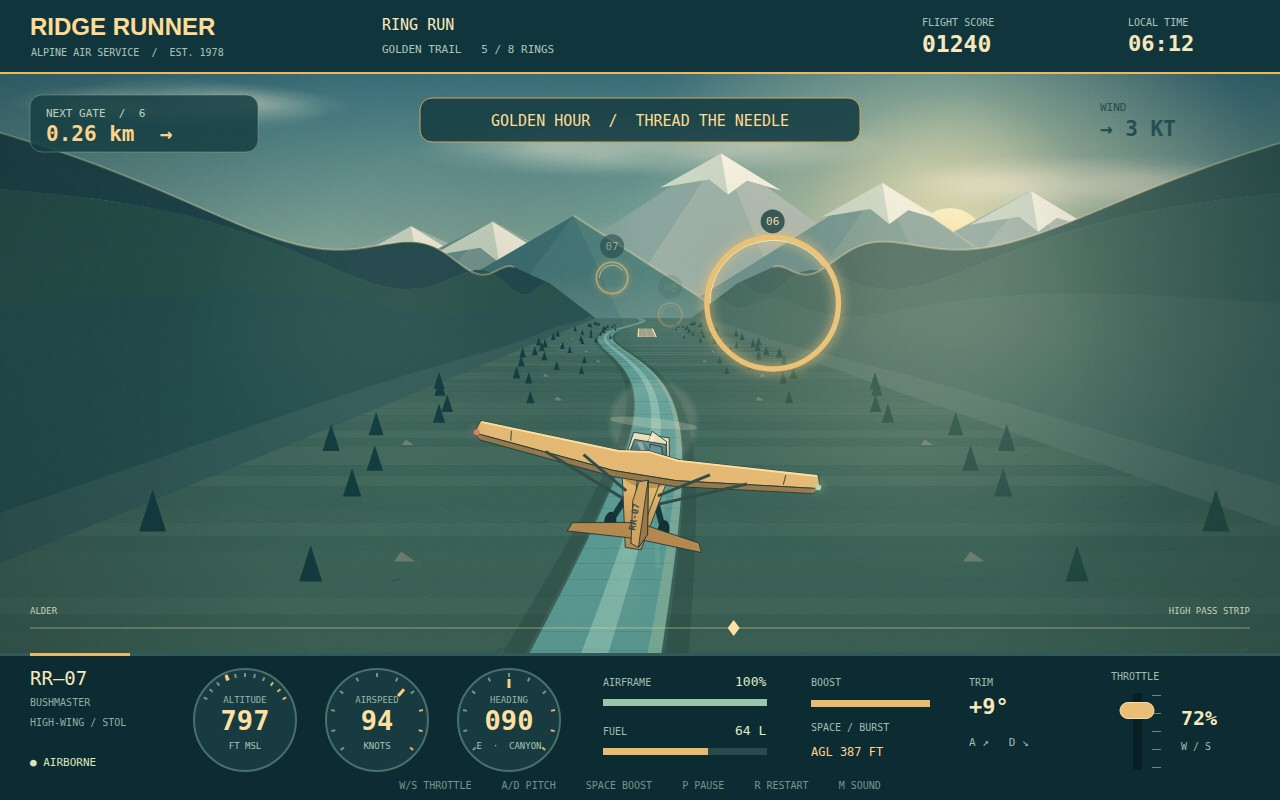
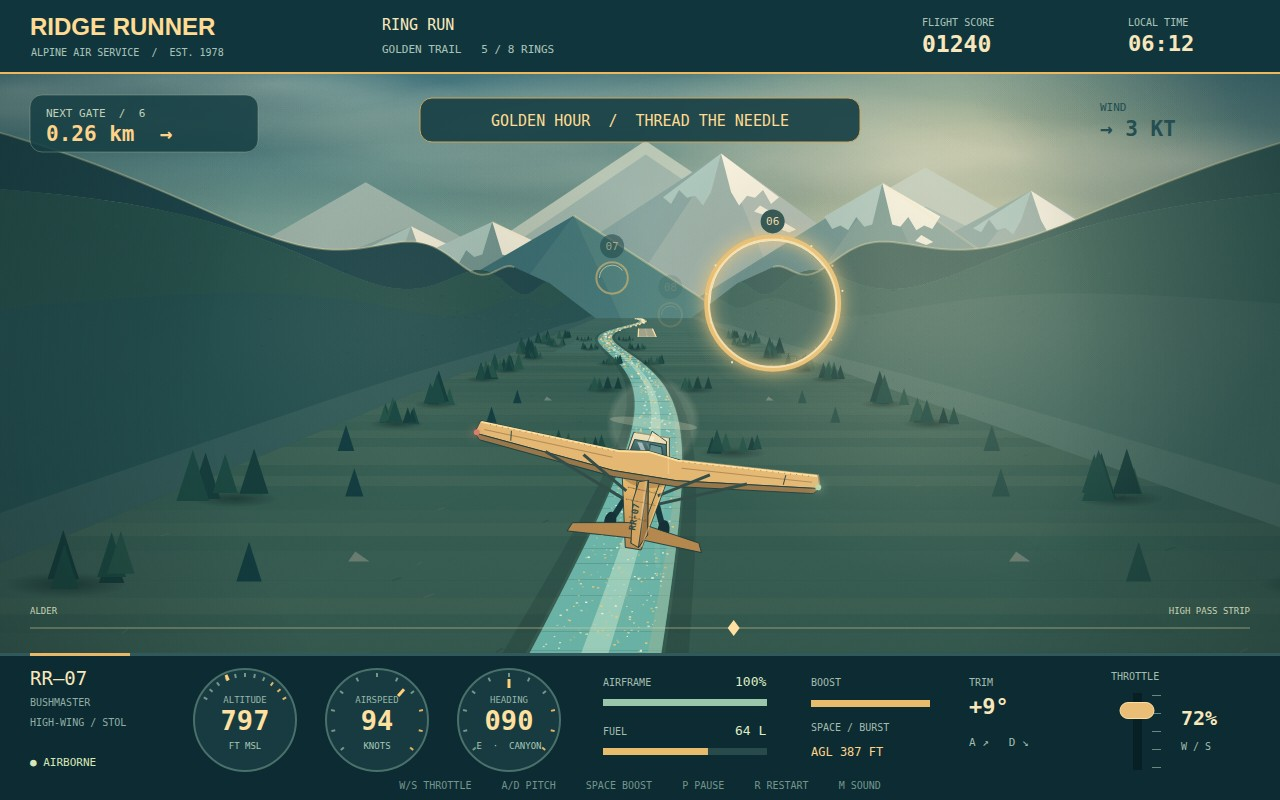
Art-target pass: volumetric two-tone clouds, eroded mist, 5-layer mountains with irregular snow, forest clumps, river sun-glitter, glowing ring core with dust, weathered-metal plane

diff --git a/game/src/chase.js b/game/src/chase.js
@@ -39,41 +39,43 @@ RR.Chase=class{
  worldPolygon(c,points,color){this.polygon(c,points.map(p=>this.projectPoint(...p)),color);}
  drawSky(c){const storm=this.mission===2,sky=c.createLinearGradient(0,74,0,580);
   for(const [p,color] of [[0,storm?'#243640':'#3f747e'],[.4,storm?'#52666b':'#8fae9d'],[.75,storm?'#6a7b78':'#d9c49c'],[1,storm?'#89958a':'#f4d9a4']])sky.addColorStop(p,color);c.fillStyle=sky;c.fillRect(0,0,1280,800);
-  for(const [r,a] of [[320,storm?.14:.5],[150,storm?.09:.5]]){const g=c.createRadialGradient(950,242,0,950,242,r),rgb=storm?'200,214,208':'255,231,170';g.addColorStop(0,`rgba(${rgb},${a})`);g.addColorStop(1,`rgba(${rgb},0)`);c.fillStyle=g;c.fillRect(950-r,242-r,r*2,r*2);}
+  for(const [r,a] of [[520,storm?.045:.24],[320,storm?.14:.5],[150,storm?.09:.5]]){const g=c.createRadialGradient(950,242,0,950,242,r),rgb=storm?'200,214,208':r===520?'255,214,150':'255,231,170';g.addColorStop(0,`rgba(${rgb},${a})`);g.addColorStop(1,`rgba(${rgb},0)`);c.fillStyle=g;c.fillRect(950-r,242-r,r*2,r*2);}
   const sun=c.createLinearGradient(0,208,0,276);sun.addColorStop(0,'#fff2c0');sun.addColorStop(1,'#ffd488');c.fillStyle=storm?'rgba(150,170,163,.16)':sun;c.beginPath();c.arc(950,242,34,0,7);c.fill();
   if(storm){RR.fx.cloud(c,140,110,430,80,'dark',.45,11);RR.fx.cloud(c,1140,105,430,80,'dark',.45,37);}
-  else{RR.fx.cloud(c,180,105,300,54,'warm',.5,11);RR.fx.cloud(c,640,145,430,80,'warm',.5,23);RR.fx.cloud(c,1080,185,360,64,'warm',.5,37);RR.fx.cloud(c,780,235,400,40,'cool',.22,29);}
+  else{RR.fx.cloud(c,600,65,1100,170,'cool',.16,41);RR.fx.cloud(c,180,105,560,120,'warm',.5,11);RR.fx.cloud(c,640,145,760,170,'warm',.5,23);RR.fx.cloud(c,1080,185,620,140,'warm',.5,37);RR.fx.cloud(c,780,235,420,90,'cool',.22,29);}
  }
  drawFarMountains(c){
+  for(let far=0;far<2;far++){const base=318+far*16;for(let n=-1;n<6;n++){const x=n*280-this.lateral*(.012+far*.008),peak=167+far*14+Math.sin(n*2.1+far)*30;this.polygon(c,[{x:x-180,y:base},{x:x+85,y:peak},{x:x+350,y:base}],far?'#a4b6ac':'#bec8b7');}if(RR.fx.mist){c.save();c.globalAlpha=.30-far*.025;c.drawImage(RR.fx.mist,0,base-35,1280,70);c.restore();}}
   for(let layer=0;layer<3;layer++){const base=350+layer*20,spacing=310+layer*80;for(let n=-1;n<5;n++){const x=n*spacing-this.lateral*(.03+layer*.035),peak=190+layer*30+Math.sin(n*2.1+layer)*42;
    this.polygon(c,[{x:x-200,y:base},{x:x+100,y:peak},{x:x+370,y:base}],['#8da6a0','#678e8c','#3d7075'][layer]);this.polygon(c,[{x:x+100,y:peak},{x:x-30,y:base},{x:x+180,y:base}],['#9fb1a8','#789891','#497a7b'][layer]);this.polygon(c,[{x:x+100,y:peak},{x:x+180,y:base},{x:x+370,y:base}],['#b1bbb0','#88a29a','#548480'][layer]);
-   if(layer<2){this.polygon(c,[{x:x+100,y:peak},{x:x+39,y:peak+34},{x:x+88,y:peak+26},{x:x+107,y:peak+41},{x:x+126,y:peak+27},{x:x+160,y:peak+37}],'#ccd6c4');this.polygon(c,[{x:x+100,y:peak},{x:x+107,y:peak+41},{x:x+126,y:peak+27},{x:x+160,y:peak+37}],'#f6f2de');}
-   if(layer>0){c.strokeStyle=`rgba(255,232,170,${layer===2?.4:.25})`;c.lineWidth=2;c.beginPath();c.moveTo(x+100,peak);c.lineTo(x+370,base);c.stroke();}}}
-  const haze=c.createLinearGradient(0,275,0,385);haze.addColorStop(0,'#dbd5b000');haze.addColorStop(.5,'#c8cdb434');haze.addColorStop(1,'#c8cdb400');c.fillStyle=haze;c.fillRect(0,275,1280,110);
-  const low=c.createLinearGradient(0,345,0,420);low.addColorStop(0,'rgba(220,226,205,.10)');low.addColorStop(1,'rgba(220,226,205,0)');c.fillStyle=low;c.fillRect(0,345,1280,75);
+   if(layer<2){for(const side of [-1,1]){const points=[{x:x+100,y:peak}];for(let k=0;k<7;k++){const jitter=Math.sin((n*31+layer*7+k)*127.1)*.5+.5;points.push({x:x+100+side*(58-k*8),y:peak+Math.max(0,base-peak)*.18+(k%2?8:0)+jitter*9});}this.polygon(c,points,side>0?'#f8f1dc':'#aec6bc');}for(let k=0;k<2;k++){const px=x+139+k*24,py=peak+52+k*17;this.polygon(c,[{x:px,y:py},{x:px+12,y:py+7},{x:px+5,y:py+10},{x:px-6,y:py+6}],'#f8f1dc');}}
+   if(layer>0){c.strokeStyle=`rgba(255,232,170,${layer===2?.4:.25})`;c.lineWidth=2;c.beginPath();c.moveTo(x+100,peak);c.lineTo(x+370,base);c.stroke();}}if(RR.fx.mist){c.save();c.globalAlpha=.24-layer*.04;c.drawImage(RR.fx.mist,0,base-30,1280,65);c.restore();}}
  }
  riverCentre(z){return -110+Math.sin(z*.0017)*100;}
  drawValleyFloor(c){
   c.fillStyle='#325b56';c.fillRect(0,365,1280,300);
   const depths=[];for(let d=20;d<5200;d+=Math.min(55,Math.max(4,d*.065)))depths.push(d);depths.push(5200);
-  for(let j=depths.length-2;j>=0;j--){const a=this.z-200+depths[j],b=this.z-200+depths[j+1],h=Math.sin(j*127.1)*43758.5453;this.worldPolygon(c,[[-1600,0,a],[1600,0,a],[1600,0,b],[-1600,0,b]],['#40685c','#456c60','#3d665b'][Math.floor((h-Math.floor(h))*3)]);
+  for(let j=depths.length-2;j>=0;j--){const a=this.z-200+depths[j],b=this.z-200+depths[j+1],h=Math.sin(j*127.1)*43758.5453;this.worldPolygon(c,[[-1600,0,a],[1600,0,a],[1600,0,b],[-1600,0,b]],['#3b6257','#406659','#386055'][Math.floor((h-Math.floor(h))*3)]);
    // Clip broad world-space fields to each depth strip so the river and slopes stay in front.
    for(const [x,z,w,length,color] of [[-350,900,190,480,'#41695d'],[210,2100,210,650,'#3d665b'],[-370,3300,230,720,'#548480'],[235,4600,185,560,'#41695d'],[-340,5550,190,650,'#548480'],[210,6300,230,580,'#3d665b']]){const near=Math.max(a,z),far=Math.min(b,z+length);if(near<far){c.save();c.globalAlpha=.30;this.worldPolygon(c,[[x+25*(near-z)/length,0,near],[x+w-35*(near-z)/length,0,near],[x+w-35*(far-z)/length,0,far],[x+25*(far-z)/length,0,far]],color);c.restore();}}
    for(const [x,z,w,length,color] of [[-290,1600,120,320,'#548480'],[260,3800,110,360,'#41695d'],[-380,4900,135,300,'#3d665b']]){const near=Math.max(a,z),far=Math.min(b,z+length);if(near<far){c.save();c.globalAlpha=.22;this.worldPolygon(c,[[x,0,near],[x+w,0,near],[x+w,0,far],[x,0,far]],color);c.restore();}}
-   const ra=this.riverCentre(a),rb=this.riverCentre(b);this.worldPolygon(c,[[ra-34,1,a],[ra+34,1,a],[rb+34,1,b],[rb-34,1,b]],'#609e98');this.worldPolygon(c,[[ra+27,2,a],[ra+34,2,a],[rb+34,2,b],[rb+27,2,b]],'#a1b9a080');
+   const ra=this.riverCentre(a),rb=this.riverCentre(b);this.worldPolygon(c,[[ra-34,1,a],[ra+34,1,a],[rb+34,1,b],[rb-34,1,b]],'#74b8ad');this.worldPolygon(c,[[ra+27,2,a],[ra+34,2,a],[rb+34,2,b],[rb+27,2,b]],'#a1b9a080');
 
   }
-  for(let j=depths.length-2;j>=0;j--){const a=this.z-200+depths[j],b=this.z-200+depths[j+1],ra=this.riverCentre(a),rb=this.riverCentre(b);this.worldPolygon(c,[[ra-7,2,a],[ra+7,2,a],[rb+7,2,b],[rb-7,2,b]],'rgba(215,238,214,.32)');for(const side of [-1,1])this.worldPolygon(c,[[ra+side*36,1,a],[ra+side*48,1,a],[rb+side*48,1,b],[rb+side*36,1,b]],'rgba(8,28,30,.16)');}
+  for(let j=depths.length-2;j>=0;j--){const a=this.z-200+depths[j],b=this.z-200+depths[j+1],ra=this.riverCentre(a),rb=this.riverCentre(b);this.worldPolygon(c,[[ra-7,2,a],[ra+7,2,a],[rb+7,2,b],[rb-7,2,b]],'rgba(215,238,214,.46)');for(const side of [-1,1])this.worldPolygon(c,[[ra+side*36,1,a],[ra+side*48,1,a],[rb+side*48,1,b],[rb+side*36,1,b]],'rgba(8,28,30,.16)');}
   const hash=n=>{const h=Math.sin(n*127.1)*43758.5453;return h-Math.floor(h);};
+  for(let j=0;j<depths.length-1;j++){const a=this.z-200+depths[j],b=this.z-200+depths[j+1],count=Math.min(24,Math.max(2,Math.floor(68*this.projectPoint(0,0,a).scale*.22)));for(let n=0;n<count;n++){const f=hash(j*97+n*13),z=a+(b-a)*f,centre=this.riverCentre(a)+(this.riverCentre(b)-this.riverCentre(a))*f,p=this.projectPoint(centre+(hash(j*31+n*71)-.5)*58,2,z),size=1+hash(n*17+j)*1.5;c.fillStyle=`rgba(${n%2?'255,246,214':'255,205,120'},${.35+hash(j*41+n)*.6})`;c.fillRect(p.x,p.y,size,size*.65);}}
   const nearDepths=depths.filter(d=>d<1100);for(let n=0;n<90;n++){const j=n%nearDepths.length,z=this.z-200+nearDepths[j],x=(hash(j*97+n*13)-.5)*900;if(Math.abs(x-this.riverCentre(z))<50)continue;const p=this.projectPoint(x,0,z);c.strokeStyle=n%2?'rgba(235,242,200,.06)':'rgba(0,0,0,.10)';c.lineWidth=Math.max(.5,p.scale);c.beginPath();c.moveTo(p.x,p.y);c.lineTo(p.x+(3+hash(n+3)*5)*p.scale,p.y-2*p.scale);c.stroke();}
   // Continuous faces avoid antialiased seams between narrow depth tiles.
   for(const side of [-1,1]){const toe=[],ridge=[],crest=[];for(const d of depths){const z=this.z-200+d,h=290+Math.sin(z*.003)*65;toe.push([side*480,0,z]);ridge.push([side*950,h,z]);crest.push([side*1300,h+160,z]);}this.worldPolygon(c,[...ridge,...crest.slice().reverse()],side<0?'#21494e':'#355d58');this.worldPolygon(c,[...toe,...ridge.slice().reverse()],side<0?'#285454':'#426b62');
    const mid=toe.map((p,i)=>p.map((v,k)=>v+(ridge[i][k]-v)*.55));this.worldPolygon(c,[...mid,...ridge.slice().reverse()],side<0?'#2b5650':'#3a655c');
    for(const [i,offset] of [500,1300,2100].entries()){const p=this.projectPoint(side*720,150,this.z+offset),radius=260*p.scale+120,patch=c.createRadialGradient(p.x,p.y,0,p.x,p.y,radius),rgb=i%2?'255,240,200':'6,24,26';patch.addColorStop(0,`rgba(${rgb},${i%2?.06:.13})`);patch.addColorStop(1,`rgba(${rgb},0)`);c.fillStyle=patch;c.beginPath();c.arc(p.x,p.y,radius,0,Math.PI*2);c.fill();}
    c.strokeStyle='rgba(255,233,170,.34)';c.lineWidth=2;c.beginPath();crest.forEach((v,i)=>{const p=this.projectPoint(...v);if(i)c.lineTo(p.x,p.y);else c.moveTo(p.x,p.y);});c.stroke();
+   for(let n=0;n<90;n++){const z=this.z+hash(n*73+side)*3000,f=hash(n*43+side),p=this.projectPoint(side*(490+f*440),(290+Math.sin(z*.003)*65)*f,z);c.fillStyle=n%2?'rgba(235,224,181,.055)':'rgba(6,28,29,.10)';c.fillRect(p.x,p.y,1+hash(n)*2,1);}
    const fog=toe.map((p,i)=>p.map((v,k)=>v+(ridge[i][k]-v)*.08));this.worldPolygon(c,[...toe,...fog.reverse()],'rgba(220,226,205,.07)');
   }
-  for(let n=Math.ceil((this.z+3600)/73);n>=Math.floor((this.z-140)/73);n--){const z=n*73,hash=Math.sin(n*127.1)*43758.5453,f=hash-Math.floor(hash);for(const side of [-1,1]){const x=side*(170+f*280);const p=this.projectPoint(x,0,z),h=(19+f*16)*p.scale,w=h*.32;if(p.y>680)continue;this.polygon(c,[{x:p.x,y:p.y-h},{x:p.x-w,y:p.y},{x:p.x+w,y:p.y}],side<0?'#153f43':'#254f48');if(n%4===0){const r=this.projectPoint(x*.8,0,z+26);this.polygon(c,[{x:r.x-8*r.scale,y:r.y},{x:r.x-3*r.scale,y:r.y-7*r.scale},{x:r.x+7*r.scale,y:r.y}], '#718378');}}}
+  for(let n=Math.ceil((this.z+2300)/146);n>=Math.floor((this.z-140)/146);n--){const z=n*146;if(z-this.z+230>=2600)continue;for(const side of [-1,1]){const x=n%3===0?this.riverCentre(z)+side*(60+hash(n)*45):side*(370+hash(n)*90),p=this.projectPoint(x,0,z),scale=[.65,1,1.35][Math.abs(n)%3];if(p.y>680)continue;if(RR.fx.shade)c.drawImage(RR.fx.shade,p.x-40*p.scale,p.y-6*p.scale,80*p.scale,16*p.scale);for(let k=0;k<5+Math.floor(hash(n+8)*5);k++){const q=this.projectPoint(x+(hash(n*31+k)-.5)*65,0,z+(hash(n*17+k)-.5)*30),h=(18+hash(n*47+k)*24)*q.scale*scale,w=h*.32;this.polygon(c,[{x:q.x,y:q.y-h},{x:q.x-w,y:q.y},{x:q.x+w,y:q.y}],['#173f3d','#1d4a44','#265449'][k%3]);}}}
+  for(let n=Math.ceil((this.z+650)/146);n>=Math.floor((this.z-140)/146);n--){const z=n*146,hash=Math.sin(n*127.1)*43758.5453,f=hash-Math.floor(hash);for(const side of [-1,1]){const x=side*(170+f*280);const p=this.projectPoint(x,0,z),h=(19+f*16)*p.scale,w=h*.32;if(p.y>680)continue;this.polygon(c,[{x:p.x,y:p.y-h},{x:p.x-w,y:p.y},{x:p.x+w,y:p.y}],side<0?'#153f43':'#254f48');if(n%4===0){const r=this.projectPoint(x*.8,0,z+26);this.polygon(c,[{x:r.x-8*r.scale,y:r.y},{x:r.x-3*r.scale,y:r.y-7*r.scale},{x:r.x+7*r.scale,y:r.y}], '#718378');}}}
  }
  drawRunways(c){for(const r of this.runways){if(r.x+r.w<this.z-180||r.x-this.z>4200)continue;const start=Math.max(r.x,this.z-180),end=r.x+r.w;
    // Clip all markings to a single coplanar trapezoid, including at long range.
@@ -86,25 +88,29 @@ RR.Chase=class{
  drawRingsAhead(c){
   const visible=this.rings.map((r,n)=>({r,n,d:r.x-this.z})).filter(({r,d})=>!r.hit&&d>=-25&&d<=3000).sort((a,b)=>a.d-b.d).slice(0,3).map((item,i)=>{const p=this.projectPoint(item.r.lateral,item.r.y,item.r.x),radius=item.r.r*p.scale;return {...item,p,radius,badgeY:p.y-radius-16,opacity:i===0?1:i===1?.58:.16};});
   for(let i=1;i<visible.length;i++){const ring=visible[i];if(visible.slice(0,i).some(near=>Math.hypot(near.p.x-ring.p.x,near.badgeY-ring.badgeY)<46))ring.opacity=Math.min(ring.opacity,.35);if(visible.slice(0,i).some(near=>Math.hypot(near.p.x-ring.p.x,near.p.y-ring.p.y)<near.radius+ring.radius+12))ring.opacity=0;}
-  for(const {n,p,radius,opacity} of visible.reverse()){c.save();c.globalAlpha=opacity;c.strokeStyle='#e7bc70';c.lineWidth=Math.max(2,5*p.scale);c.shadowColor=c.strokeStyle;c.shadowBlur=12*opacity;c.beginPath();c.ellipse(p.x,p.y,radius,radius,0,0,7);c.stroke();c.shadowBlur=0;c.strokeStyle='#f9e5b6';c.lineWidth=1;c.beginPath();c.arc(p.x,p.y,Math.max(0,radius-3),Math.PI,Math.PI*1.8);c.stroke();c.fillStyle='#21494b';c.beginPath();c.arc(p.x,p.y-radius-16,12,0,7);c.fill();c.fillStyle='#efd5a0';c.font='11px monospace';c.textAlign='center';c.fillText(String(n+1).padStart(2,'0'),p.x,p.y-radius-12);c.restore();}
+  const nearest=visible[0];for(const ring of visible.reverse()){const {n,p,radius,opacity}=ring;c.save();if(ring===nearest){const halo=c.createRadialGradient(p.x,p.y,radius*.65,p.x,p.y,radius*1.35);halo.addColorStop(0,'rgba(255,214,150,0)');halo.addColorStop(.5,'rgba(255,214,150,.18)');halo.addColorStop(1,'rgba(255,214,150,0)');c.fillStyle=halo;c.fillRect(p.x-radius*1.35,p.y-radius*1.35,radius*2.7,radius*2.7);}c.globalAlpha=opacity;c.strokeStyle='#e7bc70';c.lineWidth=Math.max(2,5*p.scale);c.shadowColor=c.strokeStyle;c.shadowBlur=ring===nearest?12*opacity:0;c.beginPath();c.ellipse(p.x,p.y,radius,radius,0,0,7);c.stroke();c.shadowBlur=0;if(ring===nearest){c.strokeStyle='rgba(255,243,207,.6)';c.lineWidth=Math.max(1,2*p.scale);c.beginPath();c.arc(p.x,p.y,Math.max(0,radius-2*p.scale),0,7);c.stroke();for(let k=0;k<16;k++){const f=Math.sin((n*31+k)*127.1)*43758.5453,u=f-Math.floor(f),a=(k+u*.6)/16*Math.PI*2,r=radius+(u-.5)*12;c.fillStyle=`rgba(${k%2?'255,243,207':'255,214,150'},${.3+u*.6})`;c.fillRect(p.x+Math.cos(a)*r,p.y+Math.sin(a)*r,1+u,1+u);}}c.strokeStyle='#f9e5b6';c.lineWidth=1;c.beginPath();c.arc(p.x,p.y,Math.max(0,radius-3),Math.PI,Math.PI*1.8);c.stroke();c.fillStyle='#21494b';c.beginPath();c.arc(p.x,p.y-radius-16,12,0,7);c.fill();c.fillStyle='#efd5a0';c.font='11px monospace';c.textAlign='center';c.fillText(String(n+1).padStart(2,'0'),p.x,p.y-radius-12);c.restore();}
  }
  drawChasePlane(c){
   const ground=this.projectPoint(this.lateral,0,this.z+30),fade=Math.max(0,1-this.altitude/400);c.save();c.translate(ground.x,ground.y);c.scale(80*fade+10,12*fade+2);const shadow=c.createRadialGradient(0,0,0,0,0,1);shadow.addColorStop(0,`rgba(8,30,34,${.30*fade})`);shadow.addColorStop(1,'rgba(8,30,34,0)');c.fillStyle=shadow;c.beginPath();c.ellipse(0,0,1,1,0,0,7);c.fill();c.restore();
   c.save();c.translate(640+this.bank*22,480+this.pitch*28);c.rotate(this.bank);const planeScale=1+Math.max(0,100-this.altitude)*.0015;c.scale(planeScale,planeScale);const poly=(p,color)=>{this.polygon(c,p.map(([x,y])=>({x,y})),color);c.strokeStyle='#183b40';c.lineWidth=.8;c.stroke();};const body=c.createLinearGradient(0,-54,0,65);body.addColorStop(0,'#eee4c4');body.addColorStop(.45,'#e9bc73');body.addColorStop(1,'#b98e53');
   c.strokeStyle='#dce5cc18';c.lineWidth=5;c.beginPath();c.moveTo(10,-36);c.bezierCurveTo(30,-10,15,40,28,80);c.stroke();
-  const prop=c.createRadialGradient(0,-62,0,0,-62,47);for(const [p,a] of [[0,.04],[.55,.08],[.85,.13],[1,0]])prop.addColorStop(p,`rgba(242,232,205,${a})`);c.fillStyle=prop;c.beginPath();c.arc(0,-62,47,0,7);c.fill();
+  const prop=c.createRadialGradient(0,-62,0,0,-62,47);for(const [p,a] of [[0,.052],[.55,.104],[.85,.169],[1,0]])prop.addColorStop(p,`rgba(242,232,205,${a})`);c.fillStyle=prop;c.beginPath();c.arc(0,-62,47,0,7);c.fill();
   const phase=Math.sin(this.time*48)*.9;for(const angle of [phase,phase+Math.PI]){c.save();c.translate(0,-62);c.rotate(angle);c.fillStyle='rgba(240,230,200,.13)';c.beginPath();c.ellipse(0,0,44,5,0,0,7);c.fill();c.restore();}
   if(this.throttle>.5)for(let i=0;i<4;i++){const h=Math.sin(i*127.1)*43758.5453,x=(h-Math.floor(h)-.5)*12,y=70+i*20,r=8+i*5,g=c.createRadialGradient(x,y,0,x,y,r);g.addColorStop(0,`rgba(206,196,168,${(this.throttle-.5)*.55*(1-i/4.5)})`);g.addColorStop(1,'rgba(206,196,168,0)');c.fillStyle=g;c.fillRect(x-r,y-r,r*2,r*2);}
   c.strokeStyle='#183b40';c.lineWidth=6;for(const s of [-1,1]){c.beginPath();c.moveTo(s*13,10);c.lineTo(s*26,40);c.stroke();c.fillStyle='#16343a';c.beginPath();c.ellipse(s*27,42,6,10,0,0,7);c.fill();}
   poly([[-18,-50],[18,-50],[24,-13],[8,65],[-8,65],[-24,-13]],body);poly([[0,-54],[16,-46],[18,-15],[3,60],[-3,60],[-8,-20]],body);
   this.polygon(c,[{x:-3,y:-49},{x:3,y:-49},{x:5,y:0},{x:0,y:58},{x:-2,y:0}],'rgba(255,247,218,.5)');
-  const glass=c.createLinearGradient(0,-43,0,-20);glass.addColorStop(0,'#6d9693');glass.addColorStop(1,'#254d53');poly([[-16,-43],[16,-43],[21,-20],[-21,-20]],glass);poly([[0,-41],[12,-40],[16,-23],[2,-24]],'#6d9693');
-  this.polygon(c,[{x:-13,y:-41},{x:-8,y:-41},{x:4,y:-22},{x:-1,y:-22}],'rgba(255,255,255,.34)');this.polygon(c,[{x:-4,y:-41},{x:-2,y:-41},{x:10,y:-23},{x:8,y:-23}],'rgba(255,255,255,.16)');
+  const glass=c.createLinearGradient(0,-43,0,-20);glass.addColorStop(0,'#577f7c');glass.addColorStop(1,'#1c4147');poly([[-16,-43],[16,-43],[21,-20],[-21,-20]],glass);poly([[0,-41],[12,-40],[16,-23],[2,-24]],'#6d9693');
+  this.polygon(c,[{x:-13,y:-41},{x:-8,y:-41},{x:4,y:-22},{x:-1,y:-22}],'rgba(255,255,255,.52)');this.polygon(c,[{x:-4,y:-41},{x:-2,y:-41},{x:10,y:-23},{x:8,y:-23}],'rgba(255,255,255,.16)');
   c.save();c.fillStyle='rgba(58,38,8,.22)';c.shadowColor=c.fillStyle;c.shadowBlur=8;c.beginPath();c.ellipse(0,-6,22,9,0,0,7);c.fill();c.restore();
   poly([[-175,-24],[-171,-37],[-32,-30],[0,-34],[32,-30],[171,-37],[175,-24],[32,-9],[-32,-9]],'#e5ba77');poly([[-175,-24],[-32,-9],[32,-9],[175,-24],[169,-18],[31,-3],[-31,-3],[-169,-18]],'#9b7b4d');
   c.strokeStyle='#ffe0a0';c.lineWidth=2;c.beginPath();c.moveTo(-170,-36);c.lineTo(-30,-29);c.lineTo(0,-33);c.lineTo(30,-29);c.lineTo(170,-36);c.stroke();
   c.strokeStyle='#35504c';c.lineWidth=3;for(const s of [-1,1]){c.beginPath();c.moveTo(s*18,17);c.lineTo(s*102,-17);c.moveTo(s*16,9);c.lineTo(s*64,-20);c.stroke();c.lineWidth=1;c.beginPath();c.moveTo(s*139,-32);c.lineTo(s*138,-22);c.stroke();c.lineWidth=3;}
   poly([[-9,40],[-64,49],[-68,58],[-8,55],[8,55],[68,58],[64,49],[9,40]],'#b98e53');poly([[-3,60],[-8,18],[-5,-2],[4,-5],[12,49],[5,63]],'#d7a866');poly([[4,-5],[12,49],[5,63],[4,10]],'#a77d47');
+  c.strokeStyle='rgba(90,64,32,.35)';c.lineWidth=1;for(const y of [5,17,34]){const w=y>20?9:15;c.beginPath();c.moveTo(-w,y);c.lineTo(w,y+2);c.stroke();c.fillStyle='rgba(70,50,26,.4)';for(let k=0;k<6;k++)c.fillRect(-w+k*w*.36,y,1,1);}
+  for(const side of [-1,1]){c.beginPath();c.moveTo(side*35,-22);c.lineTo(side*166,-29);c.stroke();for(let k=0;k<22;k++){c.fillStyle='rgba(70,50,26,.4)';c.fillRect(side*(35+k*6),-29-k*.3,1,1);}}
+  const brushed=c.createLinearGradient(0,-12,0,58);brushed.addColorStop(0,'rgba(255,244,214,0)');brushed.addColorStop(.45,'rgba(255,244,214,.35)');brushed.addColorStop(1,'rgba(255,244,214,0)');c.strokeStyle=brushed;c.lineWidth=3;c.beginPath();c.moveTo(2,-10);c.lineTo(5,56);c.stroke();
+  c.strokeStyle='rgba(255,214,150,.5)';c.lineWidth=1.5;c.beginPath();c.moveTo(-17,-50);c.lineTo(17,-50);c.lineTo(23,-14);c.moveTo(20,0);c.lineTo(8,62);c.moveTo(32,-30);c.lineTo(171,-37);c.lineTo(175,-24);c.stroke();
   c.save();c.translate(-1,30);c.rotate(-Math.PI/2);c.fillStyle='#35504b';c.font='bold 9px monospace';c.fillText('RR-07',-17,0);c.restore();
   for(const [x,color] of [[-173,'#d9826d'],[173,'#b9d6ac']]){c.fillStyle=color;c.shadowColor=color;c.shadowBlur=10;c.beginPath();c.arc(x,-25,3,0,7);c.fill();}c.restore();
  }

diff --git a/game/src/world.js b/game/src/world.js
@@ -14,44 +14,47 @@ RR.World=class{
  wind(x,t){return Math.sin(t*.8+x*.001)*this.spec.wind+Math.sin(t*2.7)*this.spec.wind*.35;}
  draw(ctx,cam,t){
   const c=ctx,sy=y=>560-(y-cam.y),sx=x=>x-cam.x;
+  const hash=n=>{const h=Math.sin((n+this.seed)*127.1)*43758.5453;return h-Math.floor(h);};
   const storm=this.mission===2,sunX=1020-cam.x*.018;
   const sky=c.createLinearGradient(0,0,0,660);for(const [p,color] of [[0,storm?'#344752':'#6ea7ab'],[.45,storm?'#657e7d':'#a9c9b2'],[.78,storm?'#a0b0a6':'#f3cf9c'],[1,storm?'#c5cdca':'#ffedb9']])sky.addColorStop(p,color);c.fillStyle=sky;c.fillRect(0,0,1280,800);
   for(const [r,a] of [[200,storm?.12:.5],[115,storm?.08:.55]]){const g=c.createRadialGradient(sunX,153,0,sunX,153,r),rgb=storm?'200,214,208':'255,227,160';g.addColorStop(0,`rgba(${rgb},${a})`);g.addColorStop(1,`rgba(${rgb},0)`);c.fillStyle=g;c.fillRect(sunX-r,153-r,r*2,r*2);}
   const sun=c.createLinearGradient(0,108,0,198);sun.addColorStop(0,'#fff3c4');sun.addColorStop(1,'#ffd98c');c.fillStyle=storm?'rgba(216,223,216,.16)':sun;c.beginPath();c.arc(sunX,153,storm?69:45,0,Math.PI*2);c.fill();
   if(storm){for(let i=0;i<3;i++)RR.fx.cloud(c,140+i*420-cam.x*.008,85+i*33,680,152,'dark',.55,i);}
-  else{for(let i=0;i<5;i++){const x=((i*247-cam.x*.08+t*3)%1700+1700)%1700-180;RR.fx.cloud(c,x,78+(i%3)*51,180+i*40,90,'warm',.5,i);}for(let i=0;i<2;i++)RR.fx.cloud(c,420+i*550-cam.x*.025,100+i*55,160,45,'cool',.3,i+9);}
-  const colors=[['#8aa5a2','#b5c2b5','#a0b4ac'],['#618f91','#91b0a9','#79a09d'],['#326f77','#528c8c','#427e82']];
-  colors.forEach((col,l)=>{const par=.11+l*.12,spacing=310-l*30,base=505+l*40,shift=cam.x*par;
+  else{for(let i=0;i<5;i++){const x=((i*247-cam.x*.08+t*3)%1700+1700)%1700-180;RR.fx.cloud(c,x,78+(i%3)*51,260+i*50,110,'warm',.5,i);}for(let i=0;i<2;i++)RR.fx.cloud(c,420+i*550-cam.x*.025,100+i*55,300,75,'cool',.3,i+9);}
+  const colors=[['#b5c3b7','#ccd0bc','#bec9b9'],['#8aa5a2','#b5c2b5','#a0b4ac'],['#618f91','#91b0a9','#79a09d'],['#326f77','#528c8c','#427e82']];
+  colors.forEach((col,l)=>{const par=l===0?.05:.11+(l-1)*.12,spacing=l===0?340:310-(l-1)*30,base=465+l*40,shift=cam.x*par;
    const poly=(points,color)=>{c.fillStyle=color;c.beginPath();points.forEach(([x,y],i)=>i?c.lineTo(x,y):c.moveTo(x,y));c.closePath();c.fill();};
-   for(let i=Math.floor(shift/spacing)-2;i<Math.floor(shift/spacing)+7;i++){const x=i*spacing-shift,peak=165+l*45+Math.sin(i*2.7+this.seed)*65,px=x+spacing*.32;
+   for(let i=Math.floor(shift/spacing)-2;i<Math.floor(shift/spacing)+7;i++){const x=i*spacing-shift,peak=120+l*45+Math.sin(i*2.7+this.seed)*65,px=x+spacing*.32;
     poly([[x-spacing*.7,base],[px,peak],[x+spacing*1.2,base]],col[0]);
     poly([[px,peak],[x-spacing*.1,base],[x+spacing*.56,base]],col[2]);
     poly([[px,peak],[x+spacing*.56,base],[x+spacing*1.2,base]],col[1]);
-    if(l<2){poly([[px,peak],[x+spacing*.11,peak+65],[x+spacing*.27,peak+52],[x+spacing*.36,peak+73]],'#ccd6c4');poly([[px,peak],[x+spacing*.36,peak+73],[x+spacing*.43,peak+45],[x+spacing*.52,peak+69]],'#f6f2de');}
-    c.strokeStyle=`rgba(255,232,170,${l===2?.5:.3})`;c.lineWidth=2;c.beginPath();c.moveTo(px,peak);c.lineTo(x+spacing*1.2,base);c.stroke();
+    if(l<3){for(const side of [-1,1]){const points=[[px,peak]];for(let k=0;k<7;k++)points.push([px+side*(spacing*.16-k*spacing*.023),peak+70+(k%2)*12+hash(i*31+l*7+k)*14]);poly(points,side>0?'#f8f1dc':'#aec6bc');}for(let k=0;k<2;k++){const qx=px+35+k*24,qy=peak+82+k*24;poly([[qx,qy],[qx+15,qy+8],[qx+7,qy+13],[qx-5,qy+6]],'#f8f1dc');}}
+    c.strokeStyle=`rgba(255,232,170,${l===3?.5:.3})`;c.lineWidth=2;c.beginPath();c.moveTo(px,peak);c.lineTo(x+spacing*1.2,base);c.stroke();
    }
-   if(l<2){const haze=c.createLinearGradient(0,base-120,0,base),rgb=storm?'200,214,208':'240,233,204';haze.addColorStop(0,`rgba(${rgb},${storm?.12:.13})`);haze.addColorStop(1,`rgba(${rgb},0)`);c.fillStyle=haze;c.fillRect(0,base-120,1280,120);}
+   if(RR.fx.mist){c.save();c.globalAlpha=.28-l*.04;c.drawImage(RR.fx.mist,0,base-80,1280,100);c.restore();}
   });
   // River beneath the foreground bank: changing width gives a winding valley.
   c.fillStyle='#79b8b4';c.beginPath();c.moveTo(0,540);for(let x=0;x<=1280;x+=30)c.lineTo(x,550+Math.sin((x+cam.x*.55)*.006)*27);c.lineTo(1280,720);c.lineTo(0,720);c.fill();
   c.save();c.strokeStyle='rgba(255,244,205,.35)';c.shadowColor=c.strokeStyle;c.shadowBlur=6;c.lineWidth=5;c.beginPath();for(let x=0;x<=1280;x+=30)c.lineTo(x,560+Math.sin((x+cam.x*.55)*.006)*27);c.stroke();c.restore();
   for(let x=0;x<1280;x+=8){const y=550+Math.sin((x+cam.x*.55)*.006)*27,g=c.createLinearGradient(0,y,0,y+12);g.addColorStop(0,'rgba(20,50,50,.18)');g.addColorStop(1,'rgba(20,50,50,0)');c.fillStyle=g;c.fillRect(x,y,8,12);}
   c.strokeStyle='#d7dfb17d';c.lineWidth=2;for(let i=0;i<24;i++){let x=((i*111-cam.x*.6+t*12)%1400+1400)%1400;c.beginPath();c.moveTo(x,585+(i%4)*19);c.lineTo(x+37,585+(i%4)*19);c.stroke();}
+  for(let n=0;n<220;n++){const wx=(Math.floor(cam.x*.55/8)+n)*8,x=wx-cam.x*.55,y=560+Math.sin(wx*.006)*27+hash(n+23)*10,size=1+hash(n+71)*1.5;c.fillStyle=`rgba(${n%2?'255,246,214':'255,205,120'},${.3+hash(wx)*.6})`;c.fillRect(x,y,size,size*.65);}
   // Solid ground is sampled from exactly the same height function as collisions.
   const soil=c.createLinearGradient(0,350,0,800);soil.addColorStop(0,'#1e5c5e');soil.addColorStop(1,'#0c3036');c.fillStyle=soil;c.beginPath();c.moveTo(-20,800);for(let x=-20;x<=1300;x+=10)c.lineTo(x,sy(this.ground(x+cam.x)));c.lineTo(1300,800);c.fill();
   for(let i=Math.floor(cam.x/37)-1;i<(cam.x+1300)/37;i++){const hash=Math.sin(i*127.1)*43758.5453,f=hash-Math.floor(hash),wx=i*37,x=sx(wx),y=sy(this.ground(wx)),len=8+f*18,offset=6+f*64;c.strokeStyle=i%2?'rgba(255,240,200,.09)':'rgba(0,0,0,.18)';c.lineWidth=2+f;c.beginPath();c.moveTo(x,y+offset);c.lineTo(x+len,y+offset+(sy(this.ground(wx+10))-y)*len/10);c.stroke();}
   c.strokeStyle='rgba(4,20,22,.16)';c.lineWidth=10;c.beginPath();for(let x=-20;x<=1300;x+=10)c.lineTo(x,sy(this.ground(x+cam.x))+14);c.stroke();
   c.strokeStyle='#70a28c';c.lineWidth=5;c.beginPath();for(let x=-20;x<=1300;x+=10)c.lineTo(x,sy(this.ground(x+cam.x)));c.stroke();
-  for(let i=Math.floor(cam.x/73)-1;i<(cam.x+1300)/73;i++){const wx=i*73+Math.sin(i*2)*19;if(this.runway(wx)||this.runways.some(r=>Math.abs(wx-r.x)<65))continue;let x=sx(wx),y=sy(this.ground(wx)),h=23+(Math.sin(i*7)+1)*15;c.save();c.globalAlpha=.85;c.fillStyle='#2f7263';c.beginPath();c.moveTo(x+3,y-h-16);c.lineTo(x-10,y-8);c.lineTo(x+16,y-8);c.fill();c.restore();c.fillStyle=i%3===0?'#103e46':'#225d5c';c.fillRect(x-2,y-h,4,h);c.beginPath();c.moveTo(x,y-h-15);c.lineTo(x-13,y-7);c.lineTo(x+13,y-7);c.fill();}
+  for(let i=Math.floor(cam.x/73)-1;i<(cam.x+1300)/73;i++){const wx=i*73+Math.sin(i*2)*19;if(this.runway(wx)||this.runways.some(r=>Math.abs(wx-r.x)<65))continue;let x=sx(wx),y=sy(this.ground(wx)),h=23+(Math.sin(i*7)+1)*15;if(RR.fx.shade)c.drawImage(RR.fx.shade,x-32,y-12,64,22);for(let k=0;k<1+Math.floor(hash(i)*3);k++){const cx=wx+(k%2?-1:1)*(12+hash(i*7+k)*15);if(this.runway(cx))continue;const qx=sx(cx),qy=sy(this.ground(cx)),qh=h*(.45+hash(i*31+k)*.3);c.fillStyle=k%2?'#1d4a44':'#265449';c.beginPath();c.moveTo(qx,qy-qh-8);c.lineTo(qx-qh*.3,qy-3);c.lineTo(qx+qh*.3,qy-3);c.fill();}c.save();c.globalAlpha=.85;c.fillStyle='#2f7263';c.beginPath();c.moveTo(x+3,y-h-16);c.lineTo(x-10,y-8);c.lineTo(x+16,y-8);c.fill();c.restore();c.fillStyle=i%3===0?'#103e46':'#225d5c';c.fillRect(x-2,y-h,4,h);c.beginPath();c.moveTo(x,y-h-15);c.lineTo(x-13,y-7);c.lineTo(x+13,y-7);c.fill();}
   // Geological seams make the low canyon read as rock rather than a flat floor.
   c.strokeStyle='#38736d66';c.lineWidth=2;for(let j=0;j<3;j++){c.beginPath();for(let x=0;x<=1280;x+=20)c.lineTo(x,sy(this.ground(x+cam.x))+55+j*43+Math.sin(x*.014+j)*10);c.stroke();}
   c.strokeStyle='rgba(112,162,140,.18)';c.lineWidth=1;for(let j=0;j<3;j++){c.beginPath();for(let x=0;x<=1280;x+=20)c.lineTo(x,sy(this.ground(x+cam.x))+72+j*43+Math.sin(x*.014+j)*10);c.stroke();}
   // A turquoise channel follows the valley floor, visible between the near banks.
   const riverY=x=>sy(this.ground(x+cam.x))+84+Math.sin((x+cam.x)*.004)*20;
-  c.fillStyle='#4e9492';c.beginPath();for(let x=-20;x<=1300;x+=20)c.lineTo(x,riverY(x));for(let x=1300;x>=-20;x-=20)c.lineTo(x,riverY(x)+28+Math.sin((x+cam.x)*.003)*12);c.closePath();c.fill();
+  c.fillStyle='#61aaa2';c.beginPath();for(let x=-20;x<=1300;x+=20)c.lineTo(x,riverY(x));for(let x=1300;x>=-20;x-=20)c.lineTo(x,riverY(x)+28+Math.sin((x+cam.x)*.003)*12);c.closePath();c.fill();
   c.strokeStyle='rgba(190,230,210,.22)';c.lineWidth=6;c.beginPath();for(let x=-20;x<=1300;x+=20)c.lineTo(x,riverY(x));c.stroke();
   c.strokeStyle='rgba(215,240,215,.5)';c.lineWidth=2;c.beginPath();for(let x=-20;x<=1300;x+=20)c.lineTo(x,riverY(x));c.stroke();
   c.strokeStyle='#b2d5b655';c.lineWidth=1;for(let i=0;i<18;i++){let x=((i*91-cam.x*.7+t*9)%1360+1360)%1360-40,y=riverY(x)+12;c.beginPath();c.moveTo(x,y);c.lineTo(x+22,y-2);c.stroke();}
+  for(let n=0;n<240;n++){const wx=(Math.floor(cam.x/6)+n)*6,x=wx-cam.x,y=riverY(x)+2+hash(wx)*10,size=1+hash(wx+71)*1.5;c.fillStyle=`rgba(${n%2?'255,246,214':'255,205,120'},${.3+hash(wx+12)*.6})`;c.fillRect(x,y,size,size*.65);}
   for(const r of this.runways){let x=sx(r.x),y=sy(r.h);if(x>1300||x+r.w<0)continue;const strip=c.createLinearGradient(0,y-3,0,y+6);strip.addColorStop(0,'#e8c887');strip.addColorStop(1,'#d9b26e');c.fillStyle=strip;c.fillRect(x,y-3,r.w,9);c.fillStyle='#314e4b';c.fillRect(x,y+6,r.w,12);c.fillStyle='#ffe3a1';for(let a=15;a<r.w;a+=54)c.fillRect(x+a,y,25,2);c.fillStyle='#ffce75';c.fillRect(x+25,y-70,3,68);c.beginPath();c.moveTo(x+28,y-70);c.lineTo(x+77,y-60+Math.sin(t*3)*4);c.lineTo(x+28,y-55);c.fill();c.font='bold 12px monospace';c.fillText(r.name,x+95,y-22);for(let a=0;a<=r.w;a+=60){c.save();c.fillStyle='#ffe9a8';c.shadowColor='#ffdf94';c.shadowBlur=7;c.beginPath();c.arc(x+a+2,y-4.5,2.5,0,7);c.fill();c.restore();}c.fillStyle='#fff3d6';c.fillRect(x,y-2,10,3);c.fillRect(x+r.w-10,y-2,10,3);if(r.id===1&&this.mission===1){for(let j=0;j<7;j++){c.fillStyle=`rgba(241,170,103,${.4-j*.045})`;c.beginPath();c.arc(x+140+Math.sin(j+t)*13,y-35-j*24,12+j*3,0,7);c.fill();}c.fillStyle='#f2b457';c.fillRect(x+137,y-23,6,17);c.beginPath();c.arc(x+140,y-27,4,0,7);c.fill();}}
   if(this.mission===0)for(let i=0;i<this.rings.length;i++){const r=this.rings[i],x=sx(r.x),y=sy(r.y);if(x< -90||x>1380)continue;c.save();c.translate(x,y);c.strokeStyle=r.hit?'#8cd6b5':'#ffc56b';c.lineWidth=9;c.shadowColor='#ffc56b';c.shadowBlur=r.hit?0:19;c.beginPath();c.ellipse(0,0,23,r.r,0,0,7);c.stroke();c.shadowBlur=0;c.strokeStyle='#fff3be';c.lineWidth=2;c.beginPath();c.ellipse(-3,-2,23,r.r-3,0,Math.PI,Math.PI*2);c.stroke();c.fillStyle='#123e44';c.beginPath();c.arc(0,-r.r-24,15,0,7);c.fill();c.fillStyle='#ffe3a0';c.font='bold 13px monospace';c.textAlign='center';c.fillText(String(i+1).padStart(2,'0'),0,-r.r-19);c.restore();}
   for(const b of this.balloons){let x=sx(b.x),y=sy(b.y+Math.sin(t*.6+b.x)*12);if(x< -50||x>1330)continue;const envelope=c.createLinearGradient(0,y-30,0,y+30);envelope.addColorStop(0,'#c97e64');envelope.addColorStop(1,'#a85f4c');c.fillStyle=envelope;c.beginPath();c.ellipse(x,y,23,30,0,0,7);c.fill();c.fillStyle='#f3c98c';c.beginPath();c.ellipse(x,y,9,30,0,0,7);c.fill();c.fillStyle='rgba(255,240,210,.35)';c.beginPath();c.ellipse(x-10,y-14,5,10,-.3,0,7);c.fill();c.strokeStyle='#e1bc86';c.lineWidth=1;c.beginPath();c.moveTo(x-10,y+25);c.lineTo(x-6,y+43);c.lineTo(x+6,y+43);c.lineTo(x+10,y+25);c.stroke();c.fillStyle='#775347';c.fillRect(x-7,y+39,14,9);}

diff --git a/game/src/fx.js b/game/src/fx.js
@@ -1,18 +1,29 @@
 /* Cached, deterministic surface textures; optional in headless environments. */
 (()=>{
- let ready=false, vignette, tile, puffs;
- const fx=RR.fx={disabled:false,finish,cloud};
+ let ready=false, vignette, tile, puffs, clouds;
+ const fx=RR.fx={disabled:false,finish,cloud,mistStrip,mist:null,shade:null};
+ function canvas(w,h){const a=document.createElement('canvas');a.width=w;a.height=h;return a;}
+ function mistStrip(w=512,h=64){
+  try{const a=canvas(w,h),c=a.getContext('2d');let state=18371;const random=()=>((state=(Math.imul(state,1664525)+1013904223)>>>0)/4294967296);
+   const g=c.createLinearGradient(0,0,0,h);g.addColorStop(0,'rgba(232,230,210,0)');g.addColorStop(.5,'rgba(232,230,210,.85)');g.addColorStop(1,'rgba(232,230,210,0)');c.fillStyle=g;c.fillRect(0,0,w,h);
+   c.globalCompositeOperation='destination-out';for(let i=0;i<900;i++){const x=random()*w,y=random()*h,r=2+random()*10,edge=Math.abs(y/h-.5)*2,g=c.createRadialGradient(x,y,0,x,y,r);g.addColorStop(0,`rgba(0,0,0,${.2+edge*.8})`);g.addColorStop(1,'rgba(0,0,0,0)');c.fillStyle=g;c.fillRect(x-r,y-r,r*2,r*2);}return a;
+  }catch(e){return null;}
+ }
  function init(){
   if(fx.disabled)return false;if(ready)return true;
   try{
    if(typeof document==='undefined'||typeof document.createElement!=='function')throw Error('No canvas');
-   const canvas=(w,h)=>{const a=document.createElement('canvas');a.width=w;a.height=h;return a;};
    let state=7391;const random=()=>((state=(Math.imul(state,1664525)+1013904223)>>>0)/4294967296);
    tile=canvas(256,256);const tc=tile.getContext('2d'),data=tc.createImageData(256,256);
-   for(let i=0;i<data.data.length;i+=4){const v=128+Math.round((random()+random()-1)*48);data.data[i]=data.data[i+1]=data.data[i+2]=v;data.data[i+3]=255;}tc.putImageData(data,0,0);
-   vignette=canvas(1280,579);const vc=vignette.getContext('2d'),g=vc.createRadialGradient(640,300,430,640,300,920);g.addColorStop(0,'rgba(5,18,22,0)');g.addColorStop(1,'rgba(5,18,22,.36)');vc.fillStyle=g;vc.fillRect(0,0,1280,579);
+   for(let i=0;i<data.data.length;i+=4){const v=128+Math.round((random()+random()-1)*30);data.data[i]=data.data[i+1]=data.data[i+2]=v;data.data[i+3]=255;}tc.putImageData(data,0,0);
+   vignette=canvas(1280,579);const vc=vignette.getContext('2d'),g=vc.createRadialGradient(640,300,430,640,300,920);g.addColorStop(0,'rgba(5,18,22,0)');g.addColorStop(1,'rgba(5,18,22,.44)');vc.fillStyle=g;vc.fillRect(0,0,1280,579);
    // Seed-indexed shapes are generated once, never in the frame loop.
    puffs=Array.from({length:64},()=>Array.from({length:7},(_,i)=>{const a=i/7*Math.PI*2;return{x:Math.cos(a)*.28+(random()-.5)*.08,y:Math.sin(a)*.16,r:.24+random()*.12};}));
+   fx.mist=mistStrip();fx.shade=canvas(128,64);const sc=fx.shade.getContext('2d');sc.scale(64,32);const sg=sc.createRadialGradient(1,1,0,1,1,1);sg.addColorStop(0,'rgba(8,30,30,.45)');sg.addColorStop(1,'rgba(8,30,30,0)');sc.fillStyle=sg;sc.fillRect(0,0,2,2);
+   clouds={};for(const tone of ['warm','cool','dark'])clouds[tone]=puffs.map(table=>{const a=canvas(512,192),c=a.getContext('2d');c.translate(256,96);c.scale(320,120);
+    const puff=(x,y,r,rgb,alpha)=>{const g=c.createRadialGradient(x,y,0,x,y,r);g.addColorStop(0,`rgba(${rgb},${alpha})`);g.addColorStop(1,`rgba(${rgb},0)`);c.fillStyle=g;c.fillRect(x-r,y-r,r*2,r*2);};
+    c.save();c.translate(0,.27);c.scale(1,.3);puff(0,0,.7,'20,54,54',.18);c.restore();
+    for(const p of table){puff(p.x,p.y+.06,p.r,tone==='warm'?'96,128,124':tone==='cool'?'110,140,138':'30,51,57',.55);puff(p.x,p.y-.05,p.r*.86,tone==='warm'?'255,240,214':tone==='cool'?'214,226,220':'38,54,62',.55);}return a;});
    ready=true;return true;
   }catch(e){fx.disabled=true;return false;}
  }
@@ -28,10 +39,7 @@
  }
  function cloud(c,x,y,w,h,tone='warm',alpha=.5,seed=0){
   if(!init())return;let saved=false;
-  try{c.save();saved=true;c.translate(x,y);c.scale(w,h);const rgb={warm:'255,240,214',cool:'214,226,220',dark:'38,54,62'}[tone]||'214,226,220';
-   const puff=(px,py,r,color,a)=>{const g=c.createRadialGradient(px,py,0,px,py,r);g.addColorStop(0,`rgba(${color},${a})`);g.addColorStop(1,`rgba(${color},0)`);c.fillStyle=g;c.fillRect(px-r,py-r,r*2,r*2);};
-   puff(0,.18,.5,tone==='dark'?'30,51,57':'112,150,139',alpha*.25);
-   for(const p of puffs[(seed>>>0)%puffs.length])puff(p.x,p.y,p.r,rgb,alpha*.55);
+  try{c.save();saved=true;c.globalAlpha*=alpha;c.drawImage((clouds[tone]||clouds.cool)[(seed>>>0)%puffs.length],x-w*.8,y-h*.8,w*1.6,h*1.6);
   }catch(e){fx.disabled=true;}finally{if(saved)try{c.restore();}catch(e){fx.disabled=true;}}
  }
 })();

diff --git a/game/src/plane.js b/game/src/plane.js
@@ -39,10 +39,15 @@ RR.Plane=class{
   c.fillStyle='#143b42';for(const wx of [-6,12]){c.beginPath();c.arc(wx,25,7,0,7);c.fill();c.fillStyle='#9bb4a5';c.beginPath();c.arc(wx,25,2,0,7);c.fill();c.fillStyle='#143b42';}
   const body=c.createLinearGradient(0,-27,0,14);body.addColorStop(0,'#f7c46a');body.addColorStop(.55,'#e09a37');body.addColorStop(1,'#c67f2a');c.fillStyle=body;c.strokeStyle='#173f46';c.lineWidth=2;c.beginPath();c.moveTo(-62,1);c.lineTo(-67,-27);c.lineTo(-55,-27);c.lineTo(-38,-7);c.lineTo(24,-14);c.quadraticCurveTo(48,-12,51,0);c.quadraticCurveTo(46,14,22,14);c.lineTo(-49,5);c.closePath();c.fill();c.stroke();
   c.fillStyle='rgba(120,70,10,.25)';c.beginPath();c.moveTo(-49,3);c.lineTo(43,8);c.lineTo(22,14);c.closePath();c.fill();
-  c.fillStyle='#ffcf75';c.beginPath();c.moveTo(-49,1);c.lineTo(43,0);c.lineTo(34,7);c.lineTo(-44,5);c.fill();const glass=c.createLinearGradient(0,-30,0,-12);glass.addColorStop(0,'#2a5a63');glass.addColorStop(1,'#122e35');c.fillStyle=glass;c.beginPath();c.moveTo(-11,-13);c.lineTo(-4,-30);c.lineTo(16,-29);c.lineTo(29,-12);c.closePath();c.fill();c.strokeStyle='#a3d3c5';c.lineWidth=2;c.beginPath();c.moveTo(4,-27);c.lineTo(5,-13);c.moveTo(16,-26);c.lineTo(24,-15);c.stroke();
-  c.strokeStyle='rgba(255,255,255,.4)';c.lineWidth=3;c.beginPath();c.moveTo(-6,-28);c.lineTo(10,-14);c.stroke();c.fillStyle='rgba(255,255,255,.6)';c.beginPath();c.arc(11,-26,1.5,0,7);c.fill();
+  c.fillStyle='#ffcf75';c.beginPath();c.moveTo(-49,1);c.lineTo(43,0);c.lineTo(34,7);c.lineTo(-44,5);c.fill();const glass=c.createLinearGradient(0,-30,0,-12);glass.addColorStop(0,'#244e56');glass.addColorStop(1,'#10282f');c.fillStyle=glass;c.beginPath();c.moveTo(-11,-13);c.lineTo(-4,-30);c.lineTo(16,-29);c.lineTo(29,-12);c.closePath();c.fill();c.strokeStyle='#a3d3c5';c.lineWidth=2;c.beginPath();c.moveTo(4,-27);c.lineTo(5,-13);c.moveTo(16,-26);c.lineTo(24,-15);c.stroke();
+  c.strokeStyle='rgba(255,255,255,.58)';c.lineWidth=3;c.beginPath();c.moveTo(-6,-28);c.lineTo(10,-14);c.stroke();c.fillStyle='rgba(255,255,255,.6)';c.beginPath();c.arc(11,-26,1.5,0,7);c.fill();
   c.strokeStyle='#284d4c';c.lineWidth=2;c.beginPath();c.moveTo(16,9);c.lineTo(-17,-32);c.moveTo(16,9);c.lineTo(34,-32);c.stroke();
   const wing=c.createLinearGradient(0,-35,0,-26);wing.addColorStop(0,'#f9d07c');wing.addColorStop(1,'#eda93f');c.fillStyle=wing;c.beginPath();c.moveTo(-36,-34);c.lineTo(36,-35);c.lineTo(45,-29);c.lineTo(-41,-26);c.closePath();c.fill();c.stroke();c.fillStyle='rgba(255,235,185,.95)';c.fillRect(-33,-34,65,3);
+  // Surface marks only: existing outlines, gear and pose remain untouched.
+  c.strokeStyle='rgba(90,64,32,.35)';c.lineWidth=1;for(const px of [-23,0,32]){c.beginPath();c.moveTo(px,-7);c.lineTo(px,px===32?10:6);c.stroke();c.fillStyle='rgba(70,50,26,.4)';for(let k=0;k<4;k++)c.fillRect(px+2,-5+k*3,1,1);}
+  c.beginPath();c.moveTo(-32,-29);c.lineTo(36,-31);c.stroke();for(let k=0;k<17;k++){c.fillStyle='rgba(70,50,26,.4)';c.fillRect(-31+k*4,-32,1,1);}
+  const brushed=c.createLinearGradient(-39,-8,43,-8);brushed.addColorStop(0,'rgba(255,244,214,0)');brushed.addColorStop(.5,'rgba(255,244,214,.35)');brushed.addColorStop(1,'rgba(255,244,214,0)');c.strokeStyle=brushed;c.lineWidth=3;c.beginPath();c.moveTo(-37,-5);c.quadraticCurveTo(10,-13,42,-7);c.stroke();
+  c.strokeStyle='rgba(255,214,150,.5)';c.lineWidth=1.5;c.beginPath();c.moveTo(-38,-7);c.lineTo(24,-14);c.quadraticCurveTo(43,-12,48,-5);c.moveTo(-36,-34);c.lineTo(36,-35);c.lineTo(45,-29);c.stroke();
   c.fillStyle='#173f46';c.font='bold 9px monospace';c.fillText('RR–07',-39,0);
   c.fillStyle='#eab05b';c.beginPath();c.moveTo(-56,0);c.lineTo(-76,7);c.lineTo(-44,8);c.lineTo(-38,3);c.fill();
   c.fillStyle='#244c50';c.fillRect(47,-9,7,19);
